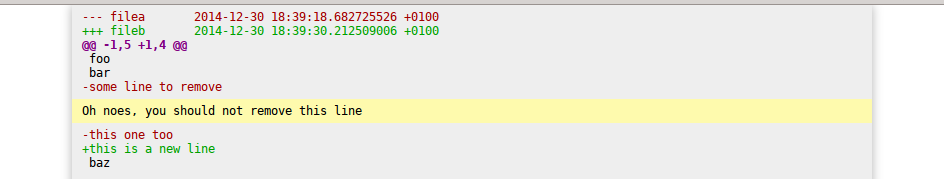
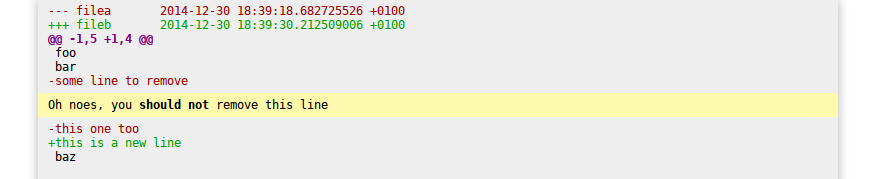
Document that we can use reStruturedText in annotations

Changed region(s): [[0.0, 0.0, 1.0, 1.0]]

diff --git a/diff_annotate/__init__.py b/diff_annotate/__init__.py
@@ -247,6 +247,8 @@ def insert_annotations(diff, annotations):
                ($EDITOR), letting the user to annotate it by inserting lines
                starting with "greater than" character (>).
 
+               Annotations are formatted with reStructuredText.
+
                The output file will then be written by formatting the diff code
                and inserting the annotations.
 

diff --git a/README.rst b/README.rst
@@ -22,7 +22,7 @@ Example
 
     $ diff-annotate <(diff -u filea fileb) review.html
     # A wild editor appears!
-    # Add something like "> Oh noes, you should not remove this line" 
+    # Add something like "> Oh noes, you **should not** remove this line" 
     # below the line "-some line to remove".
 
     # You can then see the result in your favorite browser:
